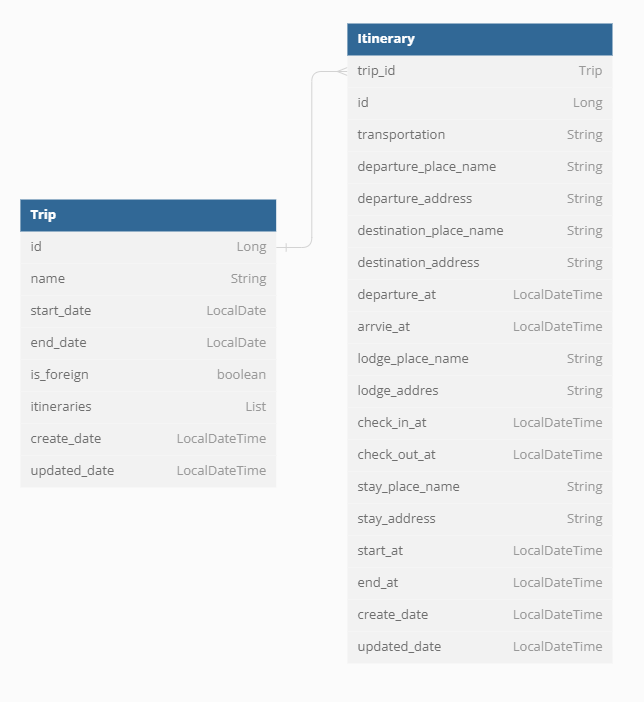
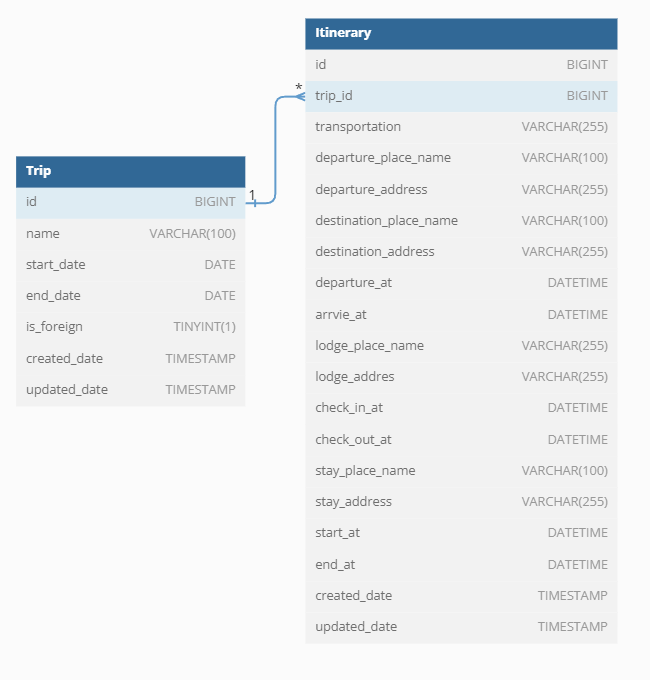
docs: swagger URI 이미지 추가 & erd사진 수정

diff --git a/README.md b/README.md
@@ -19,6 +19,9 @@
 - **CI**: GitHub Actions,
 - **API 명세** : Swagger
 
+### API 명세
+![img.png](URI사진.png)
+
 ### 서버 배포
 
 - AWS EC2를 사용해 develop, main 브랜치 자동 배포를 진행했습니다.
@@ -109,7 +112,7 @@
 
 ## ERD
 
-![패키지 및 클래스 구성도](resultimage/ERD.png)
+![img.png](resultimage/ERD.png)
 
 ## 초기 실행 화면
 
